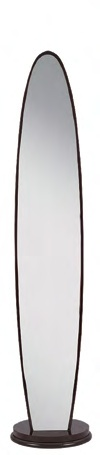
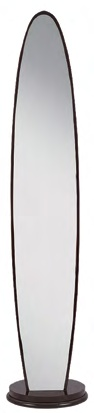
fix(catalog): resolve dining table main image mismatches and refine 2036/7020/7021 (EN+ZH)
- Record 82, 85, 86, 87, 88, 89, 90, 91, 102: Extracted authentic high-resolution images from PJ PDF pages 44, 50, 56, 57, 59, 61, 67, 68, 69 for 9 dining set cards, replacing misaligned legacy cuts
- Record 182: Refined 2036 floor mirror crops (WH/PK/BK) to eliminate trace color bleed from adjacent mirror base
- Record 31, 32: Precision textual mapping for 7020WH and 7021BK composite catalog image without duplicate phrases
- Maintained exact prices per handwritten notes (2800BK-GRAY at , 2206C(WELDED) at , etc.)

Changed region(s): [[0.0638, 0.0, 0.9362, 1.0], [0.6383, 0.2615, 0.6596, 0.2906]]

diff --git a/zh/dining/index.html b/zh/dining/index.html
@@ -655,7 +655,7 @@
 
 <div class="sofa-card reveal">
             <div class="sofa-img-container">
-                <img src="../../assets/images/pj_dining/p6_img_11_205.jpg?v=20260921_hd" alt="3016T / 3000WH 轻奢大理石餐桌组合" class="main-sofa-img" loading="lazy">
+                <img src="../../assets/images/pj_dining/pj_3016t_dining_set.jpg?v=20261008_hd" alt="3016T / 3000WH 轻奢大理石餐桌组合" class="main-sofa-img" loading="lazy">
             </div>
             <div class="sofa-info">
                 <h3>3016T / 3000WH 轻奢大理石餐桌组合</h3>
@@ -697,7 +697,7 @@
         </div>
 <div class="sofa-card reveal">
             <div class="sofa-img-container">
-                <img src="../../assets/images/pj_dining/p6_img_14_211.jpg?v=20260921_hd" alt="3000T / 3002 大理石与钢化玻璃餐桌组合" class="main-sofa-img" loading="lazy">
+                <img src="../../assets/images/pj_dining/pj_3000t_3002_set.jpg?v=20261008_hd" alt="3000T / 3002 大理石与钢化玻璃餐桌组合" class="main-sofa-img" loading="lazy">
             </div>
             <div class="sofa-info">
                 <h3>3000T / 3002 大理石与钢化玻璃餐桌组合</h3>
@@ -711,7 +711,7 @@
         </div>
 <div class="sofa-card reveal">
             <div class="sofa-img-container">
-                <img src="../../assets/images/pj_dining/p7_img_10_250.jpg?v=20260921_hd" alt="3008T / 3007T 现代大理石与玻璃餐桌" class="main-sofa-img" loading="lazy">
+                <img src="../../assets/images/pj_dining/pj_3008t_3007t_set.jpg?v=20261008_hd" alt="3008T / 3007T 现代大理石与玻璃餐桌" class="main-sofa-img" loading="lazy">
             </div>
             <div class="sofa-info">
                 <h3>3008T / 3007T 现代大理石与玻璃餐桌</h3>
@@ -725,7 +725,7 @@
         </div>
 <div class="sofa-card reveal">
             <div class="sofa-img-container">
-                <img src="../../assets/images/pj_dining/p7_img_11_252.jpg?v=20260921_hd" alt="3102T / 3112T / 3101T 现代钢化玻璃餐桌组合" class="main-sofa-img" loading="lazy">
+                <img src="../../assets/images/pj_dining/pj_3102t_glass_set.jpg?v=20261008_hd" alt="3102T / 3112T / 3101T 现代钢化玻璃餐桌组合" class="main-sofa-img" loading="lazy">
             </div>
             <div class="sofa-info">
                 <h3>3102T / 3112T / 3101T 现代钢化玻璃餐桌组合</h3>
@@ -739,7 +739,7 @@
         </div>
 <div class="sofa-card reveal">
             <div class="sofa-img-container">
-                <img src="../../assets/images/pj_dining/p7_img_12_253.jpg?v=20260921_hd" alt="3104T / 3114T / 3103T / 3105T / 3106T 镀金轻奢玻璃餐桌" class="main-sofa-img" loading="lazy">
+                <img src="../../assets/images/pj_dining/pj_3104t_gold_set.jpg?v=20261008_hd" alt="3104T / 3114T / 3103T / 3105T / 3106T 镀金轻奢玻璃餐桌" class="main-sofa-img" loading="lazy">
             </div>
             <div class="sofa-info">
                 <h3>3104T / 3114T / 3103T / 3105T / 3106T 镀金轻奢玻璃餐桌</h3>
@@ -753,7 +753,7 @@
         </div>
 <div class="sofa-card reveal">
             <div class="sofa-img-container">
-                <img src="../../assets/images/pj_dining/p7_img_13_255.jpg?v=20260921_hd" alt="2240 / 2250 简约钢木玻璃餐桌" class="main-sofa-img" loading="lazy">
+                <img src="../../assets/images/pj_dining/pj_2240_2250_set.jpg?v=20261008_hd" alt="2240 / 2250 简约钢木玻璃餐桌" class="main-sofa-img" loading="lazy">
             </div>
             <div class="sofa-info">
                 <h3>2240 / 2250 简约钢木玻璃餐桌</h3>
@@ -767,7 +767,7 @@
         </div>
 <div class="sofa-card reveal">
             <div class="sofa-img-container">
-                <img src="../../assets/images/pj_dining/p8_img_10_282.jpg?v=20260921_hd" alt="4031T 仿大理石餐桌 & 3003T 大理石餐桌" class="main-sofa-img" loading="lazy">
+                <img src="../../assets/images/pj_dining/pj_4031t_marble_set.jpg?v=20261008_hd" alt="4031T 仿大理石餐桌 & 3003T 大理石餐桌" class="main-sofa-img" loading="lazy">
             </div>
             <div class="sofa-info">
                 <h3>4031T 仿大理石餐桌 & 3003T 大理石餐桌</h3>
@@ -781,7 +781,7 @@
         </div>
 <div class="sofa-card reveal">
             <div class="sofa-img-container">
-                <img src="../../assets/images/pj_dining/p8_img_11_284.jpg?v=20260921_hd" alt="2206T / 2216T 经典一桌四椅与单椅套组" class="main-sofa-img" loading="lazy">
+                <img src="../../assets/images/pj_dining/pj_2206t_2216t_set.jpg?v=20261008_hd" alt="2206T / 2216T 经典一桌四椅与单椅套组" class="main-sofa-img" loading="lazy">
             </div>
             <div class="sofa-info">
                 <h3>2206T / 2216T 经典一桌四椅与单椅套组</h3>
@@ -935,7 +935,7 @@
         </div>
 <div class="sofa-card reveal">
             <div class="sofa-img-container">
-                <img src="../../assets/images/pj_dining/p8_img_12_285.jpg?v=20260921_hd" alt="4002 / 4154 现代经典实木餐桌组合" class="main-sofa-img" loading="lazy">
+                <img src="../../assets/images/pj_dining/pj_4002_4154_set.jpg?v=20261008_hd" alt="4002 / 4154 现代经典实木餐桌组合" class="main-sofa-img" loading="lazy">
             </div>
             <div class="sofa-info">
                 <h3>4002 / 4154 现代经典实木餐桌组合</h3>

diff --git a/dining/index.html b/dining/index.html
@@ -655,7 +655,7 @@
 
 <div class="sofa-card reveal">
             <div class="sofa-img-container">
-                <img src="../assets/images/pj_dining/p6_img_11_205.jpg?v=20260921_hd" alt="3016T / 3000WH Luxury Marble Dining Set" class="main-sofa-img" loading="lazy">
+                <img src="../assets/images/pj_dining/pj_3016t_dining_set.jpg?v=20261008_hd" alt="3016T / 3000WH Luxury Marble Dining Set" class="main-sofa-img" loading="lazy">
             </div>
             <div class="sofa-info">
                 <h3>3016T / 3000WH Luxury Marble Dining Set</h3>
@@ -697,7 +697,7 @@
         </div>
 <div class="sofa-card reveal">
             <div class="sofa-img-container">
-                <img src="../assets/images/pj_dining/p6_img_14_211.jpg?v=20260921_hd" alt="3000T / 3002 Marble & Glass Dining Collection" class="main-sofa-img" loading="lazy">
+                <img src="../assets/images/pj_dining/pj_3000t_3002_set.jpg?v=20261008_hd" alt="3000T / 3002 Marble & Glass Dining Collection" class="main-sofa-img" loading="lazy">
             </div>
             <div class="sofa-info">
                 <h3>3000T / 3002 Marble & Glass Dining Collection</h3>
@@ -711,7 +711,7 @@
         </div>
 <div class="sofa-card reveal">
             <div class="sofa-img-container">
-                <img src="../assets/images/pj_dining/p7_img_10_250.jpg?v=20260921_hd" alt="3008T / 3007T Dining Set with Marble & Glass" class="main-sofa-img" loading="lazy">
+                <img src="../assets/images/pj_dining/pj_3008t_3007t_set.jpg?v=20261008_hd" alt="3008T / 3007T Dining Set with Marble & Glass" class="main-sofa-img" loading="lazy">
             </div>
             <div class="sofa-info">
                 <h3>3008T / 3007T Dining Set with Marble & Glass</h3>
@@ -725,7 +725,7 @@
         </div>
 <div class="sofa-card reveal">
             <div class="sofa-img-container">
-                <img src="../assets/images/pj_dining/p7_img_11_252.jpg?v=20260921_hd" alt="3102T / 3112T / 3101T Glass Dining Sets" class="main-sofa-img" loading="lazy">
+                <img src="../assets/images/pj_dining/pj_3102t_glass_set.jpg?v=20261008_hd" alt="3102T / 3112T / 3101T Glass Dining Sets" class="main-sofa-img" loading="lazy">
             </div>
             <div class="sofa-info">
                 <h3>3102T / 3112T / 3101T Glass Dining Sets</h3>
@@ -739,7 +739,7 @@
         </div>
 <div class="sofa-card reveal">
             <div class="sofa-img-container">
-                <img src="../assets/images/pj_dining/p7_img_12_253.jpg?v=20260921_hd" alt="3104T / 3114T / 3103T / 3105T / 3106T Gold Glass Dining Sets" class="main-sofa-img" loading="lazy">
+                <img src="../assets/images/pj_dining/pj_3104t_gold_set.jpg?v=20261008_hd" alt="3104T / 3114T / 3103T / 3105T / 3106T Gold Glass Dining Sets" class="main-sofa-img" loading="lazy">
             </div>
             <div class="sofa-info">
                 <h3>3104T / 3114T / 3103T / 3105T / 3106T Gold Glass Dining Sets</h3>
@@ -753,7 +753,7 @@
         </div>
 <div class="sofa-card reveal">
             <div class="sofa-img-container">
-                <img src="../assets/images/pj_dining/p7_img_13_255.jpg?v=20260921_hd" alt="2240 / 2250 Minimalist Glass Dining Sets" class="main-sofa-img" loading="lazy">
+                <img src="../assets/images/pj_dining/pj_2240_2250_set.jpg?v=20261008_hd" alt="2240 / 2250 Minimalist Glass Dining Sets" class="main-sofa-img" loading="lazy">
             </div>
             <div class="sofa-info">
                 <h3>2240 / 2250 Minimalist Glass Dining Sets</h3>
@@ -767,7 +767,7 @@
         </div>
 <div class="sofa-card reveal">
             <div class="sofa-img-container">
-                <img src="../assets/images/pj_dining/p8_img_10_282.jpg?v=20260921_hd" alt="4031T / 3003T Faux & Real Marble Dining Sets" class="main-sofa-img" loading="lazy">
+                <img src="../assets/images/pj_dining/pj_4031t_marble_set.jpg?v=20261008_hd" alt="4031T / 3003T Faux & Real Marble Dining Sets" class="main-sofa-img" loading="lazy">
             </div>
             <div class="sofa-info">
                 <h3>4031T / 3003T Faux & Real Marble Dining Sets</h3>
@@ -781,7 +781,7 @@
         </div>
 <div class="sofa-card reveal">
             <div class="sofa-img-container">
-                <img src="../assets/images/pj_dining/p8_img_11_284.jpg?v=20260921_hd" alt="2206T / 2216T Classic 5-PC Dining Sets & Matching Chairs" class="main-sofa-img" loading="lazy">
+                <img src="../assets/images/pj_dining/pj_2206t_2216t_set.jpg?v=20261008_hd" alt="2206T / 2216T Classic 5-PC Dining Sets & Matching Chairs" class="main-sofa-img" loading="lazy">
             </div>
             <div class="sofa-info">
                 <h3>2206T / 2216T Classic 5-PC Dining Sets & Matching Chairs</h3>
@@ -935,7 +935,7 @@
         </div>
 <div class="sofa-card reveal">
             <div class="sofa-img-container">
-                <img src="../assets/images/pj_dining/p8_img_12_285.jpg?v=20260921_hd" alt="4002 / 4154 Modern Classic Wood Dining Sets" class="main-sofa-img" loading="lazy">
+                <img src="../assets/images/pj_dining/pj_4002_4154_set.jpg?v=20261008_hd" alt="4002 / 4154 Modern Classic Wood Dining Sets" class="main-sofa-img" loading="lazy">
             </div>
             <div class="sofa-info">
                 <h3>4002 / 4154 Modern Classic Wood Dining Sets</h3>

diff --git a/bedroom/index.html b/bedroom/index.html
@@ -771,7 +771,7 @@
             </div>
             <div class="sofa-info">
                 <h3>7020WH Modern White Platform Bed</h3>
-                <p>47.5"H white matte lacquer finish. Available in Full and Queen. (Photo shows 7021BK Black Bed at bottom left & 7020WH White Bed at top right). (Photo shows 7020WH White Bed at top right & 7021BK Black Bed at bottom left).</p>
+                <p>47.5"H white matte lacquer finish. Available in Full and Queen. (Catalog photo shows 7020WH White Bed at top right & 7021BK Black Bed at bottom left).</p>
                 <div class="sofa-details">
                     <span class="price-tag" style="font-weight:bold; color:#e63946; margin-right:10px;">Sale: Full: $268.00 | Queen: $299.00</span>
                     <span class="detail-tag">White Matte</span>
@@ -786,7 +786,7 @@
             </div>
             <div class="sofa-info">
                 <h3>7021BK Modern Black Platform Bed</h3>
-                <p>47.5"H classic black finish. Available in Full and Queen.</p>
+                <p>47.5"H classic black finish. Available in Full and Queen. (Catalog photo shows 7021BK Black Bed at bottom left & 7020WH White Bed at top right).</p>
                 <div class="sofa-details">
                     <span class="price-tag" style="font-weight:bold; color:#e63946; margin-right:10px;">Sale: Full: $268.00 | Queen: $299.00</span>
                     <span class="detail-tag">Black Wood</span>

diff --git a/zh/bedroom/index.html b/zh/bedroom/index.html
@@ -887,7 +887,7 @@
             </div>
             <div class="sofa-info">
                 <h3>7020WH 纯白现代实木平台床</h3>
-                <p>47.5"H。纯白哑光烤漆，Full / Queen 双规格可选。</p>
+                <p>47.5"H。纯白哑光烤漆，Full / Queen 双规格可选。（型录原照右上为 7020WH 白床，左下为 7021BK 黑床）。</p>
                 <div class="sofa-details">
                     <span class="price-tag" style="font-weight:bold; color:#e63946; margin-right:10px;">特惠 Full: $268 | Queen: $299</span>
                     <span class="detail-tag">纯白哑光</span>
@@ -902,7 +902,7 @@
             </div>
             <div class="sofa-info">
                 <h3>7021BK 纯黑现代实木平台床</h3>
-                <p>47.5"H。经典纯黑木纹，Full / Queen 双规格可选。</p>
+                <p>47.5"H。经典纯黑木纹，Full / Queen 双规格可选。（型录原照左下为 7021BK 黑床，右上为 7020WH 白床）。</p>
                 <div class="sofa-details">
                     <span class="price-tag" style="font-weight:bold; color:#e63946; margin-right:10px;">特惠 Full: $268 | Queen: $299</span>
                     <span class="detail-tag">纯黑质感</span>
